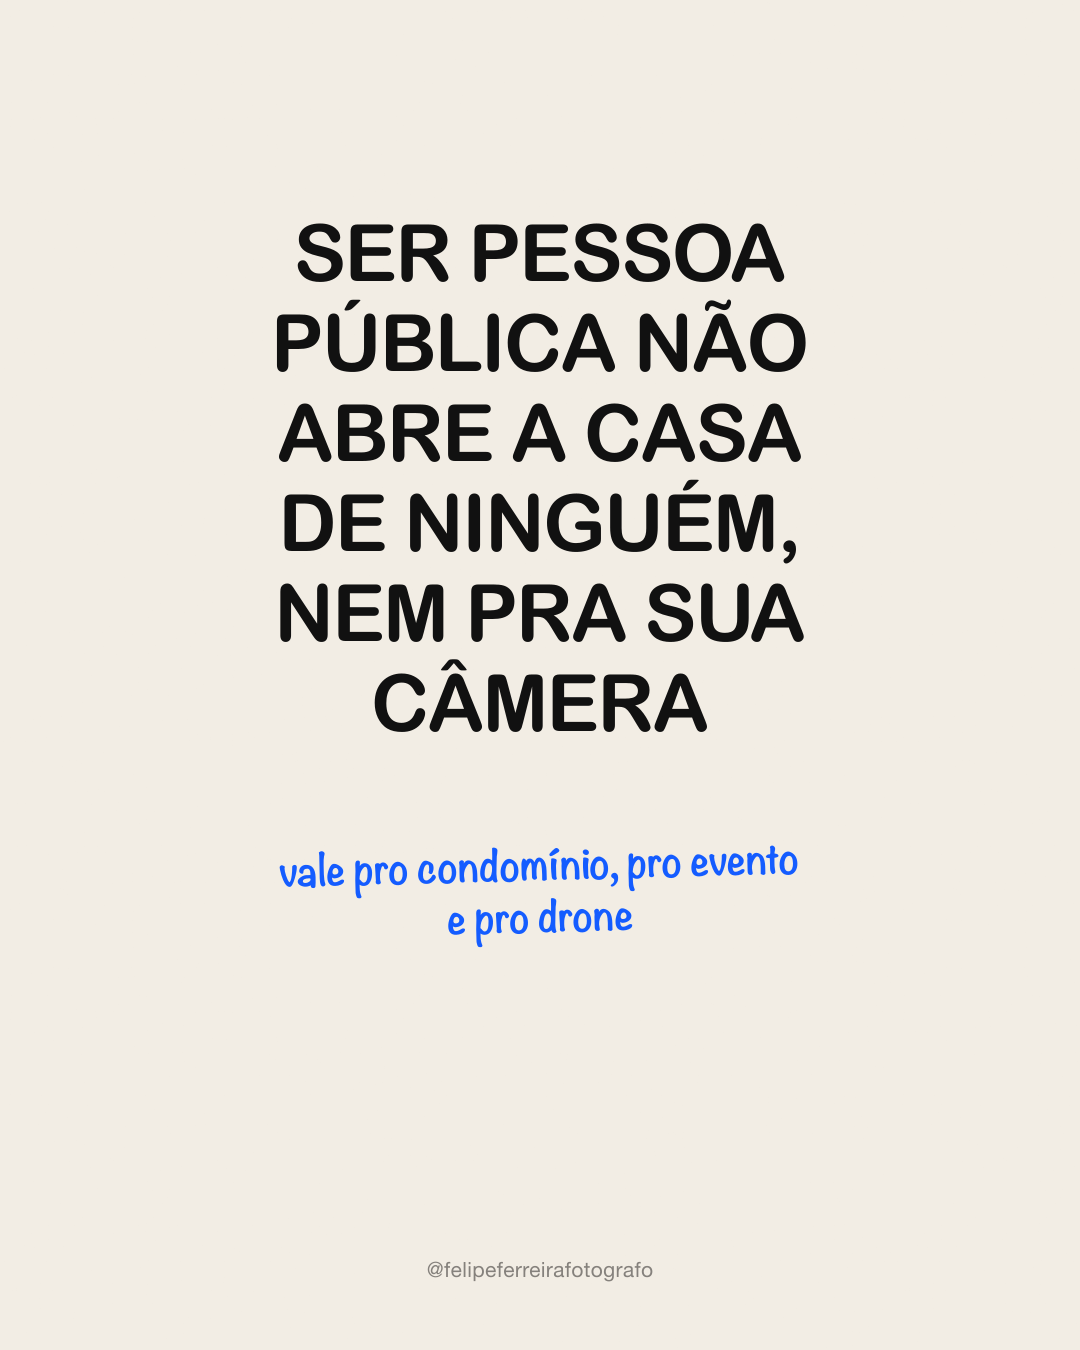
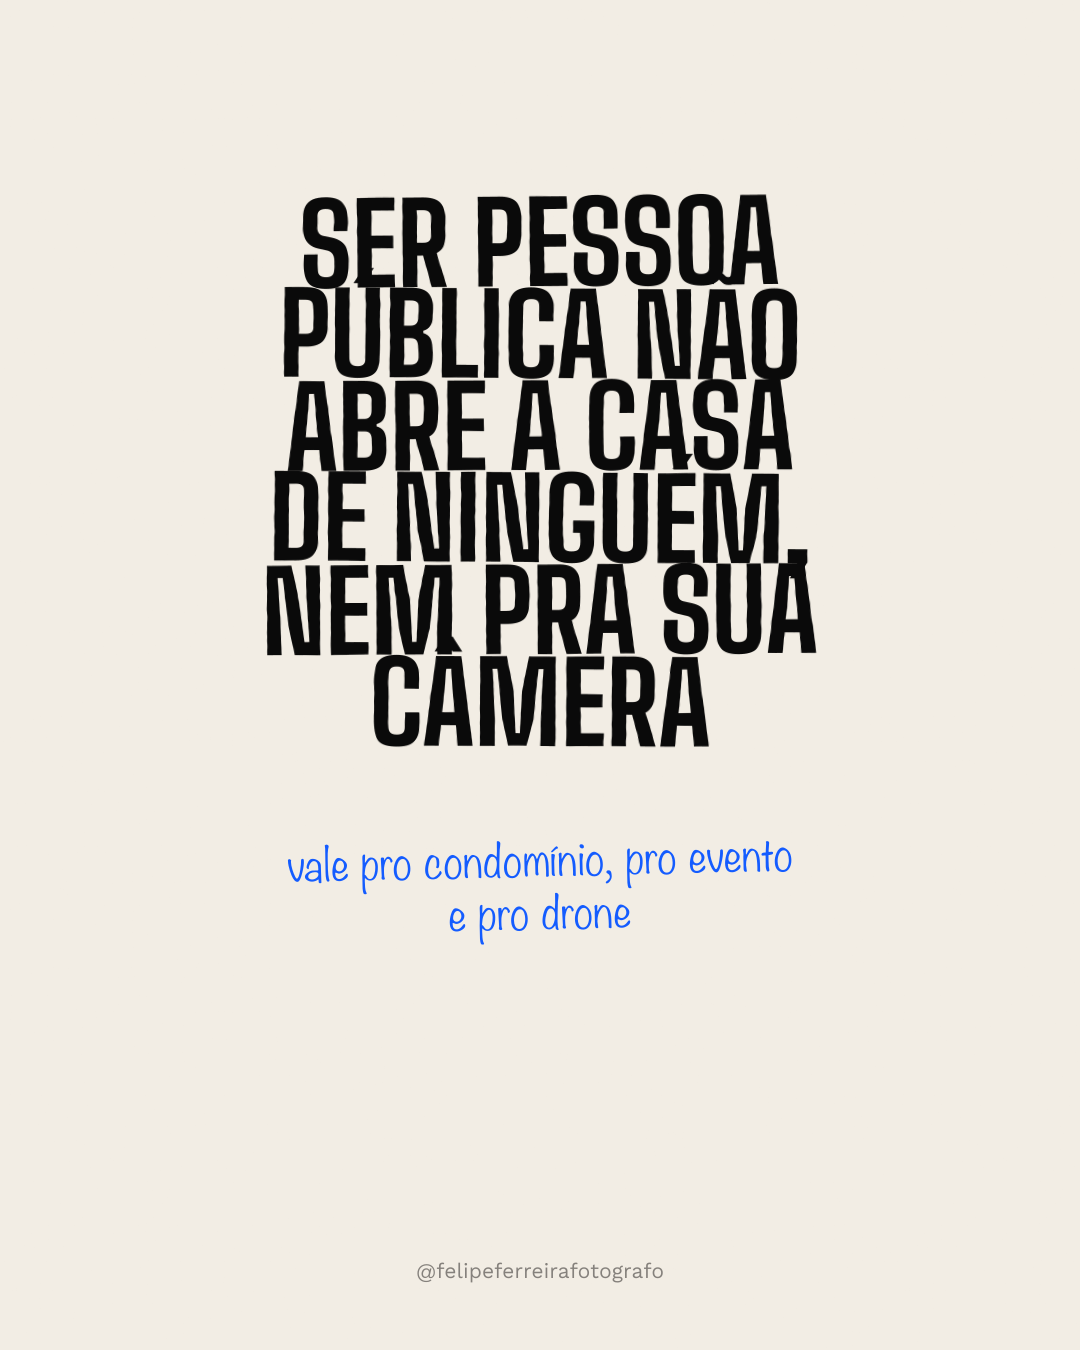
feat(organico): campo de busca na barra de filtros
Mesmo campo já existente na aba Anúncios: mesma posição, mesmo desenho, com
o X para limpar e o botão "Limpar" que zera plataforma, responsável e busca
de uma vez.

Procura no número, tema, headline, roteiro, legenda, observações e
responsável. O número entra de duas formas ("29" e "ORG 029") pra achar o
card digitando do jeito que ele aparece na tela ou só o número solto.

Changed region(s): [[0.2444, 0.1244, 0.7639, 0.56], [0.2444, 0.6222, 0.7333, 0.7156], [0.3972, 0.9333, 0.6111, 0.9644]]

diff --git a/tracker-fmn/frontend/app/organico.jsx b/tracker-fmn/frontend/app/organico.jsx
@@ -2209,6 +2209,7 @@ function OrganicoScreen() {
   const [programarData, setProgramarData] = useState(null);
   const [platFilter, setPlatFilter] = useState('Todos');
   const [respFilter, setRespFilter] = useState('Todos');
+  const [searchQuery, setSearchQuery] = useState('');
   const [nextNum, setNextNum]       = useState(1);
   const [dragId, setDragId]         = useState(null);  // id do card sendo arrastado
   const [dropTarget, setDropTarget] = useState(null);  // colId sendo hovereado
@@ -2449,8 +2450,19 @@ function OrganicoScreen() {
     if (platFilter !== 'Todos' && i.plataforma !== platFilter) return false;
     if (respFilter === 'Comum') { if (i.responsavel) return false; }
     else if (respFilter !== 'Todos' && i.responsavel !== respFilter) return false;
+    if (searchQuery.trim()) {
+      // O número entra como "29" e como "ORG 029": você acha o card digitando
+      // do jeito que ele aparece na tela ou só o número solto.
+      const num = i.numero != null ? `${i.numero} ORG ${String(i.numero).padStart(3,'0')}` : '';
+      const q = searchQuery.trim().toLowerCase();
+      const alvo = [num, i.tema, i.headline, i.roteiro, i.legenda, i.observacoes, i.responsavel]
+        .filter(Boolean).join(' ').toLowerCase();
+      if (!alvo.includes(q)) return false;
+    }
     return true;
   });
+
+  const temFiltroAtivo = platFilter !== 'Todos' || respFilter !== 'Todos' || searchQuery.trim() !== '';
 
   return (
     <div style={{ display:'flex', flexDirection:'column', height:'100%', overflow:'hidden' }}>
@@ -2567,6 +2579,42 @@ function OrganicoScreen() {
             })}
           </div>
         </div>
+        <div style={{ width:1, height:20, background:'var(--app-border)', flexShrink:0 }}/>
+        <div style={{ position:'relative', display:'flex', alignItems:'center' }}>
+          <span style={{ position:'absolute', left:8, pointerEvents:'none',
+            color:'rgba(255,255,255,.3)', display:'flex' }}>
+            <LucideIcon icon="search" size={12}/>
+          </span>
+          <input
+            type="text"
+            placeholder="Buscar ORG, tema, legenda..."
+            value={searchQuery}
+            onChange={e => setSearchQuery(e.target.value)}
+            style={{ paddingLeft:26, paddingRight:searchQuery ? 26 : 10, paddingTop:4, paddingBottom:4,
+              borderRadius:8, border:'1px solid rgba(255,255,255,.1)',
+              background:'rgba(255,255,255,.05)', color:'var(--text-1)',
+              fontFamily:'Roboto,sans-serif', fontSize:11.5, outline:'none', width:200,
+              transition:'border-color 130ms' }}
+            onFocus={e => e.target.style.borderColor='rgba(234,170,65,.4)'}
+            onBlur={e => e.target.style.borderColor='rgba(255,255,255,.1)'}
+          />
+          {searchQuery && (
+            <button onClick={() => setSearchQuery('')}
+              style={{ position:'absolute', right:6, background:'none', border:'none',
+                color:'rgba(255,255,255,.35)', cursor:'pointer', padding:0, display:'flex' }}>
+              <LucideIcon icon="x" size={11}/>
+            </button>
+          )}
+        </div>
+        {temFiltroAtivo && (
+          <button onClick={()=>{ setPlatFilter('Todos'); setRespFilter('Todos'); setSearchQuery(''); }}
+            style={{ display:'flex', alignItems:'center', gap:4, padding:'4px 8px', borderRadius:6,
+              background:'rgba(248,113,113,.08)', border:'1px solid rgba(248,113,113,.2)',
+              color:'var(--clr-neg)', fontSize:10.5, fontFamily:'Roboto,sans-serif',
+              fontWeight:700, cursor:'pointer' }}>
+            <LucideIcon icon="x" size={11}/>Limpar
+          </button>
+        )}
       </div>
 
       {viewMode === 'kanban' ? (

diff --git a/tracker-fmn/frontend/index.html b/tracker-fmn/frontend/index.html
@@ -177,7 +177,7 @@
   <script type="text/babel" src="app/kanban.jsx?v=113"></script>
   <script type="text/babel" src="app/financeiro.jsx?v=38"></script>
   <script type="text/babel" src="app/ideias.jsx?v=32"></script>
-  <script type="text/babel" src="app/organico.jsx?v=42"></script>
+  <script type="text/babel" src="app/organico.jsx?v=43"></script>
   <script type="text/babel" src="app/trafego.jsx?v=70"></script>
   <script type="text/babel" src="app/funis.jsx?v=11"></script>
   <script type="text/babel" src="app/conversas.jsx?v=61"></script>

diff --git a/tracker-fmn/generated-covers/ORG-061-filosofia-visual.md b/tracker-fmn/generated-covers/ORG-061-filosofia-visual.md
@@ -4,7 +4,7 @@ Voz Nativa transforma tipografia em presença direta. O espaço funciona como a 
 
 A paleta se limita ao creme quente do suporte, ao preto denso da afirmação, ao azul elétrico da anotação e ao cinza discreto da assinatura. Essa economia cromática preserva a força do gesto e exige ajuste meticuloso de contraste, peso e temperatura, como produto de experiência visual no mais alto nível.
 
-A escala da frase principal cria impacto imediato em miniatura. Letras arredondadas, espessas e compactas formam um bloco quase físico, com ritmo firme e entrelinhas tensas. A composição deve parecer simples e nativa, mas cada quebra de linha precisa carregar a atenção paciente de uma execução magistral.
+A escala da frase principal cria impacto imediato em miniatura. Letras estreitas, espessas e levemente irregulares formam um bloco quase físico, com ritmo firme e entrelinhas tensas. A composição deve parecer simples e nativa, mas cada quebra de linha precisa carregar a atenção paciente de uma execução magistral.
 
 A anotação manuscrita atua como uma segunda voz, menor, elétrica e imperfeita. Ela não decora o bloco principal; aproxima a ideia da vida real. A diferença entre os registros tipográficos é trabalhada com cuidado artesanal para que espontaneidade e legibilidade convivam sem competição.
 
